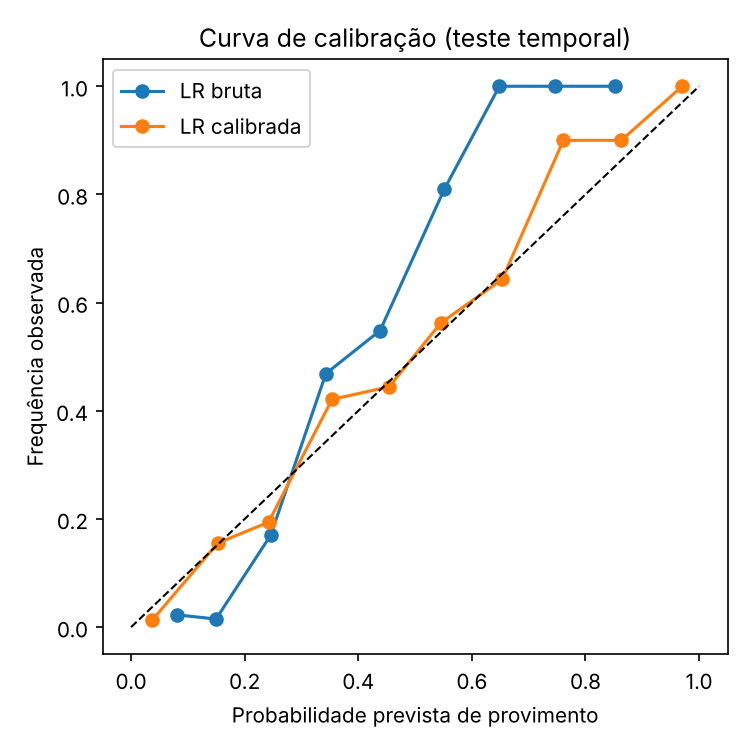
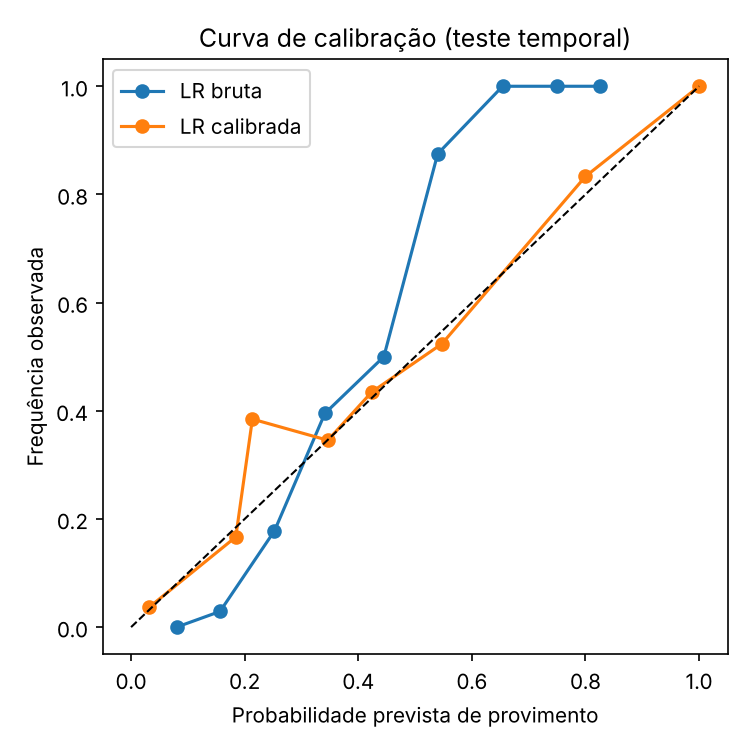
Calibra a isotônica em validação separada e adiciona script de reprodução de NLP
A Regressão Logística é treinada nos 75% mais antigos do treino temporal, a
isotônica é ajustada nos 25% seguintes e as métricas são medidas só no teste.
Inclui reproduzir_nlp.py (Quadros 1 e 2 e calibração) para o apêndice.

Claude-Session: https://claude.ai/code/session_01DxxsNkeJi2tWxYp1iCivdc

diff --git a/tcc_validacao/modelos.py b/tcc_validacao/modelos.py
@@ -1,7 +1,7 @@
 """Modelagem preditiva: TF-IDF + LR / SVM linear / Naive Bayes."""
 import numpy as np
-from sklearn.calibration import CalibratedClassifierCV
 from sklearn.feature_extraction.text import TfidfVectorizer
+from sklearn.isotonic import IsotonicRegression
 from sklearn.linear_model import LogisticRegression
 from sklearn.metrics import (
     accuracy_score, brier_score_loss, confusion_matrix, f1_score,
@@ -17,8 +17,7 @@ SEED = 42
 
 
 def vetorizador():
-    # n-gramas de 1 e 2 palavras; min_df=5 gera ~12,6 mil atributos,
-    # mesma ordem de grandeza dos 13.916 relatados no TCC.
+    # n-gramas de 1 e 2 palavras presentes em ao menos 5 documentos.
     return TfidfVectorizer(ngram_range=(1, 2), min_df=5)
 
 
@@ -51,7 +50,7 @@ def metricas(y, y_pred, s=None):
 def particao(df, modo):
     """Retorna (treino, teste).
 
-    - 'aleatoria': estratificada 80/20, como no TCC (com duplicatas).
+    - 'aleatoria': estratificada 80/20 sobre o arquivo original (com duplicatas).
     - 'dedup': remove ementas duplicadas antes da partição aleatória.
     - 'temporal': sem duplicatas; 80% mais antigos treinam, 20% mais recentes testam.
     """
@@ -112,22 +111,28 @@ def ece(y, p, bins=10):
     ))
 
 
-def calibracao(treino, teste, coluna):
-    """Compara LR bruta vs. calibrada (isotônica, CV interna) em Brier e ECE."""
-    bruta = make_pipeline(vetorizador(), LogisticRegression(max_iter=2000, random_state=SEED))
-    bruta.fit(treino[coluna], treino["y"])
-    p_bruta = bruta.predict_proba(teste[coluna])[:, 1]
+def calibracao(treino, teste, coluna, frac_validacao=0.25):
+    """Compara LR bruta vs. calibrada (isotônica) em Brier e ECE.
 
-    cal = make_pipeline(
-        vetorizador(),
-        CalibratedClassifierCV(
-            LogisticRegression(max_iter=2000, random_state=SEED), method="isotonic", cv=5
-        ),
-    )
-    cal.fit(treino[coluna], treino["y"])
-    p_cal = cal.predict_proba(teste[coluna])[:, 1]
+    Três conjuntos disjuntos e em ordem cronológica (o treino deve vir
+    ordenado por data, como na partição temporal):
+      - ajuste: 75% mais antigos do treino -> treina a Regressão Logística;
+      - validação: 25% mais recentes do treino -> ajusta a isotônica;
+      - teste: nunca usado em ajuste, só para medir Brier/ECE e a provisão.
+    """
+    corte = int(len(treino) * (1 - frac_validacao))
+    ajuste, validacao = treino.iloc[:corte], treino.iloc[corte:]
+
+    lr = make_pipeline(vetorizador(), LogisticRegression(max_iter=2000, random_state=SEED))
+    lr.fit(ajuste[coluna], ajuste["y"])
+    iso = IsotonicRegression(out_of_bounds="clip", y_min=0, y_max=1)
+    iso.fit(lr.predict_proba(validacao[coluna])[:, 1], validacao["y"])
+
+    p_bruta = lr.predict_proba(teste[coluna])[:, 1]
+    p_cal = iso.predict(p_bruta)
     y = teste["y"].to_numpy()
     return {
+        "n_ajuste": len(ajuste), "n_validacao": len(validacao), "n_teste": len(teste),
         "brier_bruta": round(float(brier_score_loss(y, p_bruta)), 4),
         "brier_calibrada": round(float(brier_score_loss(y, p_cal)), 4),
         "ece_bruta": round(ece(y, p_bruta), 4),

diff --git a/tcc_validacao/reproduzir_nlp.py b/tcc_validacao/reproduzir_nlp.py
@@ -1,0 +1,43 @@
+"""Reproduz as métricas de NLP (Quadros 1 e 2 e calibração).
+
+Uso:  pip install -r requirements.txt  &&  python reproduzir_nlp.py
+O corpus (Lage-Freitas et al., 2022) é baixado automaticamente.
+"""
+import dados
+import modelos
+
+df = dados.carregar_corpus()
+sw = dados.carregar_stopwords()
+textos = {
+    "Ementa integral": lambda t: dados.normalizar(t, sw),
+    "Ementa sem léxico dispositivo": lambda t: dados.normalizar(t, sw, dados.LEXICO_BASICO),
+    "Sem léxico dispositivo ampliado": lambda t: dados.normalizar(t, sw, dados.LEXICO_AMPLIADO),
+    "Porção temática inicial (40%)": lambda t: dados.normalizar(
+        dados.porcao_inicial(t, 0.40), sw, dados.LEXICO_BASICO),
+    "Porção temática inicial (25%)": lambda t: dados.normalizar(
+        dados.porcao_inicial(t, 0.25), sw, dados.LEXICO_BASICO),
+}
+for nome, f in textos.items():
+    df[nome] = df["ementa_text"].map(f)
+print(f"Registros: {len(df)} | ementas distintas: {df['ementa_text'].nunique()}")
+
+# Quadro 1 — classificadores, sem duplicatas
+tr, te = modelos.particao(df, "dedup")
+print(f"\nQuadro 1 (treino={len(tr)}, teste={len(te)})")
+for clf in modelos.classificadores():
+    res, _, _ = modelos.avaliar_texto(tr, te, "Ementa sem léxico dispositivo", clf, cv=True)
+    print(f"  {clf:20s} {res}")
+
+# Quadro 2 — F1 (SVM linear) por recorte do texto e tipo de partição
+particoes = {m: modelos.particao(df, m) for m in ("aleatoria", "dedup", "temporal")}
+print("\nQuadro 2 — F1 macro: aleatória com duplicatas | sem duplicatas | temporal")
+for nome in textos:
+    f1 = [modelos.avaliar_texto(a, b, nome)[0]["f1"] for a, b in particoes.values()]
+    print(f"  {nome:34s} " + " | ".join(f"{v:.3f}" for v in f1))
+f1 = [modelos.avaliar_metadados(a, b)["f1"] for a, b in particoes.values()]
+print(f"  {'Somente metadados (órgão e relator)':34s} " + " | ".join(f"{v:.3f}" for v in f1))
+
+# Calibração — ajuste (LR) e validação (isotônica) disjuntos do teste temporal
+tr_t, te_t = particoes["temporal"]
+cal, _, _ = modelos.calibracao(tr_t, te_t, "Ementa sem léxico dispositivo")
+print("\nCalibração (teste temporal):", cal)

diff --git a/tcc_validacao/dados.py b/tcc_validacao/dados.py
@@ -1,7 +1,7 @@
 """Carga e preparação do corpus TJAL (Lage-Freitas et al., 2022).
 
-Reproduz o recorte descrito no TCC: acórdãos de órgãos cíveis com desfecho
-binário (provido = 1 / improvido = 0), totalizando 5.235 registros.
+Recorte: acórdãos de órgãos cíveis com desfecho binário
+(provido = 1 / improvido = 0), totalizando 5.235 registros.
 """
 import io
 import re
@@ -19,18 +19,18 @@ URL_DATASET = (
 PASTA_DADOS = Path(__file__).parent / "dados"
 CSV_LOCAL = PASTA_DADOS / "dataset.csv"
 
-# Léxico dispositivo "básico" (o descrito no TCC: provido, negado, mantido...)
-LEXICO_TCC = [
+# Léxico dispositivo básico: termos que explicitam o veredicto
+LEXICO_BASICO = [
     "provido", "provida", "providos", "providas", "improvido", "improvida",
     "improvidos", "desprovido", "desprovida", "provimento", "desprovimento",
     "improvimento", "negado", "negada", "negados", "nego", "mantido",
     "mantida", "mantidos", "reformada", "reformado", "procedente",
     "improcedente", "procedencia", "improcedencia", "parcialmente",
 ]
-# Léxico "ampliado": inclui marcadores que o Quadro 4 do TCC mostra que
-# sobreviveram à limpeza (acolhidos, manutenção, extinção...) e termos de
+# Léxico ampliado: acrescenta marcadores dispositivos que sobreviveram ao
+# léxico básico (acolhidos, rejeitados, manutenção, extinção...) e termos de
 # quórum/dispositivo do acórdão.
-LEXICO_AMPLIADO = LEXICO_TCC + [
+LEXICO_AMPLIADO = LEXICO_BASICO + [
     "acolhido", "acolhida", "acolhidos", "acolhidas", "rejeitado",
     "rejeitada", "rejeitados", "rejeitadas", "conhecido", "conhecida",
     "conhecidos", "conhecidas", "unanimidade", "unanime", "maioria",
@@ -55,7 +55,7 @@ def baixar_dataset() -> Path:
 
 
 def carregar_corpus() -> pd.DataFrame:
-    """Retorna o corpus binário de órgãos cíveis (5.235 linhas, como no TCC).
+    """Retorna o corpus binário de órgãos cíveis (5.235 linhas).
 
     Observação: em ~18 linhas da 'Seção Especializada Cível' o CSV vem com as
     colunas deslocadas; o rótulo correto está em 'decision_label' mesmo assim.

diff --git a/tcc_validacao/executar.py b/tcc_validacao/executar.py
@@ -30,12 +30,12 @@ secao("1. Corpus")
 df = dados.carregar_corpus()
 sw = dados.carregar_stopwords()
 df["txt_integral"] = df["ementa_text"].map(lambda t: dados.normalizar(t, sw))
-df["txt_sem_lexico"] = df["ementa_text"].map(lambda t: dados.normalizar(t, sw, dados.LEXICO_TCC))
+df["txt_sem_lexico"] = df["ementa_text"].map(lambda t: dados.normalizar(t, sw, dados.LEXICO_BASICO))
 df["txt_sem_lexico_ampliado"] = df["ementa_text"].map(
     lambda t: dados.normalizar(t, sw, dados.LEXICO_AMPLIADO))
 for f in (0.40, 0.25, 0.10):
     df[f"txt_inicio_{int(f * 100)}"] = df["ementa_text"].map(
-        lambda t: dados.normalizar(dados.porcao_inicial(t, f), sw, dados.LEXICO_TCC))
+        lambda t: dados.normalizar(dados.porcao_inicial(t, f), sw, dados.LEXICO_BASICO))
 
 dup = int(df["ementa_text"].duplicated().sum())
 taxa_camara = df.groupby("orgao_julgador")["y"].mean().round(3).to_dict()

diff --git a/tcc_validacao/figuras_tcc.py b/tcc_validacao/figuras_tcc.py
@@ -34,12 +34,12 @@ def salvar(nome):
 
 df = dados.carregar_corpus()
 sw = dados.carregar_stopwords()
-df["txt"] = df["ementa_text"].map(lambda t: dados.normalizar(t, sw, dados.LEXICO_TCC))
+df["txt"] = df["ementa_text"].map(lambda t: dados.normalizar(t, sw, dados.LEXICO_BASICO))
 df["txt_integral"] = df["ementa_text"].map(lambda t: dados.normalizar(t, sw))
 df["txt_amp"] = df["ementa_text"].map(lambda t: dados.normalizar(t, sw, dados.LEXICO_AMPLIADO))
 for f in (0.40, 0.25):
     df[f"txt_{int(f * 100)}"] = df["ementa_text"].map(
-        lambda t: dados.normalizar(dados.porcao_inicial(t, f), sw, dados.LEXICO_TCC))
+        lambda t: dados.normalizar(dados.porcao_inicial(t, f), sw, dados.LEXICO_BASICO))
 base = df.drop_duplicates("ementa_text")
 N["n_total"], N["n_unicas"] = len(df), len(base)
 

diff --git a/tcc_validacao/README.md b/tcc_validacao/README.md
@@ -121,16 +121,19 @@ Isso atende ao trabalho futuro (iv) do TCC (sensibilidade dos pesos do AHP).
 
 ### 2.6 Calibração e provisão (backtest)
 
-No teste temporal (465 acórdãos, valores em risco hipotéticos U(20, 300) mil):
+Três conjuntos disjuntos, em ordem cronológica: a Regressão Logística é
+treinada nos 1.394 acórdãos mais antigos; a isotônica é ajustada nos 465
+seguintes (validação); Brier, ECE e provisão são medidos só no teste
+temporal (465 acórdãos, valores em risco hipotéticos U(20, 300) mil):
 
 | | Brier | ECE | Erro da provisão total — valor esperado | Erro — regra binária |
 |---|---|---|---|---|
-| LR bruta | 0,127 | 0,121 | −3,2% | +19,5% |
-| LR calibrada (isotônica) | 0,111 | 0,028 | **−1,3%** | +11,6% |
+| LR bruta | 0,134 | 0,106 | −4,5% | +21,3% |
+| LR calibrada (isotônica) | 0,117 | 0,014 | **−0,5%** | +9,3% |
 
 - A provisão por valor esperado acerta o total da carteira muito melhor que a
-  regra binária (que superprovisiona ~12–20%). **Confirma a tese do TCC com dado real.**
-- Calibração isotônica reduz o ECE em ~4x.
+  regra binária (que superprovisiona ~9–21%). **Confirma a tese do TCC com dado real.**
+- Calibração isotônica reduz o ECE em ~7x.
 - Obs.: no teste temporal a LR bruta é **subconfiante** (não superconfiante,
   como o TCC sugere). Os extremos 0,004/0,996 do Quadro 6 vêm do split com
   duplicatas.
@@ -156,8 +159,8 @@ No teste temporal (465 acórdãos, valores em risco hipotéticos U(20, 300) mil)
 6. **Quadro 5:** publicar a matriz de decisão do TOPSIS (custo, tempo, p de
    cada alternativa) e incluir a tabela de sensibilidade 2.5 — tirar o item
    (iv) dos trabalhos futuros.
-7. **Provisionamento:** incluir o backtest 2.6 (valor esperado −1,3% x binária
-   +11,6%) como evidência empírica; ajustar 570,8 → 571,0 (ou dizer que usa
+7. **Provisionamento:** incluir o backtest 2.6 (valor esperado −0,5% x binária
+   +9,3%) como evidência empírica; ajustar 570,8 → 571,0 (ou dizer que usa
    probabilidades sem arredondamento).
-8. **Calibração:** sair de "recomenda-se" para resultado: Brier 0,127 → 0,111,
-   ECE 0,121 → 0,028.
+8. **Calibração:** sair de "recomenda-se" para resultado: Brier 0,134 → 0,117,
+   ECE 0,106 → 0,014.
